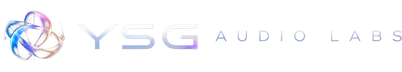
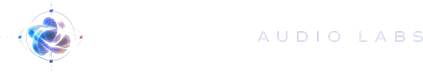
fix: 상단바 제품명 스타일 복구 · 다크 락업 재생성 · 축소/숨김 규칙
2966677 에서 `.ysglogo` 를 `.ysglock` 으로 갈아끼울 때 같은 hunk 에 붙어
있던 `.brand` · `.brand__name` · `.brand__v` 규칙까지 함께 지워졌다. 제품
5개 페이지 상단의 제품명이 스타일 없는 기본 링크로 떨어져 밑줄 친 파란
텍스트로 나오고 있었다. 복구하면서 상단바 전체 규칙을 다시 세운다.

제품명 복구 · 버전 표기 제거
- `.brand` / `.brand__name` 을 사고 이전 치수로 되돌린다. 크기만 16px →
  15px 로 한 단계 낮췄다
- 제품명 옆 버전 표기(`.brand__v`)는 상단바에서 뺀다. 허브 툴 카드와 각
  페이지의 내려받기 문구·사양표에 이미 있다

다크 락업 — 라이트 원본에서 워드마크만 다시 칠해 만든다
- 예전 다크판은 세로 락업에서 흰 워드마크를 떼어 따로 조합한 것이라
  매듭 0.74배 · 글자 0.87배 · 간격 0.67배로 비율 자체가 달랐다. 같은
  `height:30px` 를 줘도 폭이 176 대 168 로 갈려서, 테마가 다른 페이지로
  넘어가면 락업이 들썩여 보였다
- brand/ysg-lockup-compact-2026.png 에서 매듭은 그대로 두고 YSG 는 흰색,
  AUDIO LABS 는 #D0D5E7 로 칠해 다시 뽑았다. 두 장의 캔버스(423x72)와
  알파 채널이 완전히 같다 — 12개 덩어리 위치 오차 0px
- 매듭 도안도 ysg-mark-2026.png · 파비콘과 같은 링·노드 판으로 통일됐다

상단바 축소·숨김 규칙 (전 페이지 공통)
- 우선순위는 락업 > 제품명 > 언어·깃허브 > 섹션 링크. 링크는 절대 두 줄로
  접지 않고(`white-space:nowrap`), 제품명은 절대 자르지 않는다
  (`flex:0 0 auto`). 모자란 폭은 링크가 내주고 끝내 감춘다
- 기준점은 `:has()` 로 링크 개수를 세서 정한다. 링크를 더하거나 빼도
  규칙이 따라온다 — 3개 이하 680px · 4~5개 860px · 6개 이상 1120px 에서 숨김
- 전 페이지 일괄로 감추던 `@media (max-width:1000px){.navlinks{display:none}}`
  는 걷어냈다. 4~5링크 페이지는 870px 까지 링크를 들고 갈 수 있다

⚠ `--maxw:1200px` 때문에 상단바 내용폭은 화면이 아무리 넓어도 1112px 에서
  멈춘다. "큰 화면에서는 다 들어간다" 가 성립하지 않는다 — 링크 7개인
  SpatialRenderer 의 EN 표기는 자연폭이 1198px 라 4K 에서도 넘쳤다. 링크가
  6개 이상인 페이지는 폭과 무관하게 항상 한 단계 조인 치수로 둔다.

⚠ `.topbar__in` 에 `min-height:63px` 를 박았다. 예전에는 내용이 높이를
  정해서 링크가 있을 때 63 · 작아지면 59 · 숨으면 56px 로 갈렸고, 가운데
  정렬된 락업의 y 가 페이지마다 1.9px 씩 달라졌다.
[…]

diff --git a/assets/ysg.css b/assets/ysg.css
@@ -224,14 +224,24 @@
     background:rgba(255,255,255,.82); backdrop-filter:blur(14px) saturate(160%);
     border-bottom:1px solid var(--line);
   }
+  /* ⚠ 높이를 고정해 둘 것. 예전에는 내용이 높이를 정했는데, 섹션 링크가
+     있을 때 63px · 링크가 작아지면 59px · 링크가 숨으면 56px 로 갈렸다.
+     그러면 가운데 정렬된 락업의 y 가 페이지마다 최대 1.9px 씩 달라져서,
+     다른 페이지로 넘어갈 때 로고가 들썩인다. 링크 유무·크기와 무관하게
+     같은 자리에 있어야 한다. 63px 은 링크가 보일 때의 기존 높이다. */
   .topbar__in{
     max-width:var(--maxw); margin:0 auto; padding:12px var(--pad);
-    display:flex; align-items:center; gap:16px;
+    display:flex; align-items:center; gap:16px; min-height:63px;
   }
   /* 브랜드 락업 — 헤더용 원본에서 회색 판만 뺀 이미지를 그대로 쓴다.
-     워드마크가 짙은 남색이라 다크 지면에서는 묻힌다. 그래서 세로 락업 원본의
-     흰 워드마크로 다시 조합한 다크판을 따로 두고 테마에 따라 바꿔 단다.
-     두 장 다 받긴 하지만 각 20KB 안쪽이다.
+     워드마크가 짙은 남색이라 다크 지면에서는 묻힌다. 그래서 다크판을 따로 두고
+     테마에 따라 바꿔 단다. 두 장 다 받긴 하지만 각 20KB 안쪽이다.
+     ⚠ 다크판은 반드시 라이트 원본에서 워드마크만 다시 칠해 만든다
+       (brand/ysg-lockup-compact-2026.png → 매듭은 그대로, YSG 는 흰색,
+       AUDIO LABS 는 #D0D5E7). 예전에는 세로 락업에서 흰 워드마크를 떼어
+       따로 조합했는데, 매듭이 0.74배·글자가 0.87배·간격이 0.67배로 비율이
+       달라져 테마가 바뀔 때 락업이 움직여 보였다. 지금 두 장은 캔버스
+       423x72 와 알파 채널이 완전히 같다 — 위치 오차 0px.
      ⚠ 원본 비율(매듭이 워드마크의 4.45배)로는 YSG 글자가 13px 이 되려면 로고
        높이가 58px 이라 상단바가 두꺼워진다. 매듭만 글자 2.4배로 줄인 compact
        판을 쓴다 — 매듭과 글자 픽셀 자체는 원본 그대로다. */
@@ -247,12 +257,72 @@
   .ysglock--footer{display:flex; margin:0 0 14px}
   .ysglock--footer img{height:38px}
 
-  .navlinks{display:flex; gap:2px; margin-left:10px; flex:1 1 auto}
+  /* 상단바의 제품명. 2966677 에서 .ysglogo → .ysglock 으로 갈아끼울 때 같은
+     자리에 있던 이 규칙들까지 함께 지워져 밑줄 친 기본 링크로 떨어졌다. 복구본.
+     제품명 옆에 붙던 버전 표기(.brand__v)는 상단바에서 뺐다 — 허브 툴 카드와
+     각 페이지의 내려받기 문구·사양표에 이미 있다.
+     예전 주석은 `flex:0 0 auto` 를 금지했다. 제품명이 줄어들지 못해 상단바가
+     넘쳤기 때문인데, 이제 아래 축소·숨김 규칙이 섹션 링크를 먼저 내주고 끝내
+     감추므로 제품명은 고정해도 된다. 제품명은 어느 폭에서도 자르지 않는다. */
+  .brand{
+    display:flex; align-items:baseline; text-decoration:none;
+    flex:0 0 auto; min-width:0;
+  }
+  .brand__name{
+    font-size:15px; font-weight:800; letter-spacing:-.02em;
+    white-space:nowrap;
+  }
+
+  .navlinks{display:flex; gap:2px; margin-left:10px; flex:0 1 auto; min-width:0; overflow:hidden}
   .navlinks a{
     font-size:14px; font-weight:600; color:var(--ink-3); text-decoration:none;
     padding:7px 12px; border-radius:9px; transition:color .18s, background .18s;
+    white-space:nowrap;
   }
   .navlinks a:hover{color:var(--ink); background:var(--tint-2)}
+
+  /* ── 상단바 축소·숨김 규칙 (전 페이지 공통) ─────────────────────
+     우선순위는 락업 > 제품명 > 언어·깃허브 > 섹션 링크다. 폭이 모자라면
+     내주는 쪽은 언제나 섹션 링크이고, 링크는 절대 두 줄로 접지 않는다
+     (접히면 상단바가 두 줄이 되면서 제품명까지 말줄임으로 뭉갰다).
+
+     ⚠ `--maxw:1200px` 때문에 상단바 내용폭은 화면이 아무리 넓어도
+       1200 - 44*2 = 1112px 에서 멈춘다. 그래서 "큰 화면에서는 다 들어간다"
+       가 성립하지 않는다 — 링크 7개인 SpatialRenderer 의 EN 표기는 자연폭이
+       1198px 라 4K 에서도 넘쳤다. 링크가 많은 페이지는 폭과 무관하게 항상
+       한 단계 조인 치수로 둔다.
+
+     기준점을 페이지마다 손으로 박지 않고 `:has()` 로 링크 개수를 세서
+     정한다. 링크를 더하거나 빼도 규칙이 알아서 따라온다.
+       링크 3개 이하(허브)      : 680px 아래에서 숨김
+       링크 4~5개(제품 4종)     : 1000/920px 에서 2단 축소, 860px 아래 숨김
+       링크 6개 이상(Spatial)   : 항상 축소, 1120px 아래 숨김 */
+
+  /* 내비가 사라져도 언어·깃허브 묶음은 오른쪽 끝에 붙어 있어야 한다.
+     예전에는 `.navlinks{flex:1 1 auto}` 가 밀어주고 있었다. */
+  .topbar__in > .developer-topbtn,
+  .topbar__in > .langswitch{margin-left:auto}
+  .topbar__in > .developer-topbtn ~ .langswitch{margin-left:0}
+
+  /* 링크 6개 이상 — 폭과 무관하게 항상 2단계 치수 */
+  .navlinks:has(a:nth-child(6)){gap:0}
+  .navlinks:has(a:nth-child(6)) a{padding:6px 7px; font-size:13px}
+
+  /* 1단계 축소 */
+  @media (max-width: 1000px){
+    .topbar__in{gap:14px}
+    .navlinks{gap:0}
+    .navlinks a{padding:7px 9px}
+  }
+  /* 2단계 축소 */
+  @media (max-width: 920px){
+    .topbar__in{gap:12px}
+    .navlinks a{padding:6px 7px; font-size:13px}
+  }
+  /* 숨김 — 링크 개수별로 버티는 한계가 다르다 */
+  @media (max-width: 1120px){ .navlinks:has(a:nth-child(6)){display:none} }
+  @media (max-width: 860px){ .navlinks:has(a:nth-child(4)){display:none} }
+  @media (max-width: 680px){ .navlinks{display:none} }
   .langswitch{
     width:70px; height:32px; flex:0 0 auto; position:relative; padding:0;
     border:1px solid var(--line-2); border-radius:999px; background:#fff;
@@ -1079,7 +1149,8 @@
     .tiles, .rules{grid-template-columns:repeat(2,1fr)}
     .keys__grid{grid-template-columns:repeat(2,1fr)}
     .stat{grid-template-columns:1fr}
-    .navlinks{display:none}
+    /* 섹션 링크를 여기서 일괄로 감추던 규칙은 상단바 축소·숨김 규칙으로
+       옮겼다 (`.navlinks:has(...)`). 링크 개수에 따라 기준이 다르다. */
   }
   @media (max-width: 640px){
     .tiles, .rules{grid-template-columns:1fr}
@@ -1092,22 +1163,16 @@
     .anim-dot{display:none}
     .animshot--hero .animshot__stage{min-height:420px}
   }
-  @media (max-width: 720px){
-    .brand__v{display:none}
-  }
   /* 좁은 화면에서는 상단바가 넘치거나 제품명이 말줄임으로 뭉개진다.
      배지의 `YSG.AUDIO` 글자를 감추고 마크만 남기면 72px 이 남는다.
      ⚠ 기준을 380px 로 뒀더니 390px 에서 제품명이 58px 로 잘렸다
        (`YSGSpatialRenderer` 처럼 긴 이름). 520px 로 올렸다 (480px 에서도 5px 모자랐다). */
   @media (max-width: 520px){
-    /* 락업을 통째로 두면 제품명이 말줄임으로 뭉개진다 (390px 에서 문서폭 450 이
-       나왔던 그 문제). 매듭만 남겨 72px 을 돌려준다. 배경으로 넣는 이유는
-       display:none 인 <img> 도 내려받기 때문이다 — 미디어쿼리가 맞을 때만 받는다. */
-    .ysglock:not(.ysglock--footer) img{display:none}
-    .ysglock:not(.ysglock--footer){
-      width:28px; height:28px;
-      background:url("ysg-mark-2026.png") center / contain no-repeat;
-    }
-    .ysglock--footer img{height:32px}
+    /* 락업은 어느 폭에서도 줄이지 않는다 — 매듭만 남기던 예전 규칙은 걷어냈다.
+       대신 제품명을 감춘다. 390px 기준으로 락업 176 + 제품명 142 + KO/EN 70 +
+       GitHub 32 + 간격·여백 66 = 486px 이라 셋을 다 놓을 자리가 없다. 제품명을
+       더 줄여서 될 일도 아니다 (5px 까지 내려가야 한다). 락업·언어·깃허브만
+       남기면 334px 로 들어간다. 어느 제품 페이지인지는 제목과 지면이 말해준다. */
+    .brand{display:none}
     .topbar__in{gap:10px}
   }

diff --git a/index.html b/index.html
@@ -303,6 +303,14 @@
   }
   .developer-topbtn:hover,
   .developer-topbtn:focus-visible{color:var(--ink); background:var(--tint-2)}
+  /* 상단바에서 개발자 버튼을 감추는 폭에서는 푸터 링크가 유일한 진입점이 된다.
+     다이얼로그를 여는 건 `data-dialog-open` 위임 핸들러라 버튼이 어디 있든 된다. */
+  .footer-devlink{
+    appearance:none; border:0; background:transparent; padding:0; cursor:pointer;
+    font:inherit; font-size:13.5px; color:var(--ink-2); text-decoration:underline;
+    text-underline-offset:2px;
+  }
+  .footer-devlink:hover, .footer-devlink:focus-visible{color:var(--ink)}
   body.hub-page > .developer-dialog{
     position:fixed; inset:0; z-index:120; margin:0;
     width:100vw; max-width:none; height:100vh; max-height:none;
@@ -398,6 +406,12 @@
     .developer-card{grid-template-columns:1fr}
     .developer-photo{max-width:280px}
     .developer-topbtn{padding-inline:10px; font-size:13px}
+  }
+  /* 락업(176px)·KO/EN·GitHub 를 놓고 나면 개발자 버튼 자리가 없다 — 390px 에서
+     필요폭이 KO 369 / EN 399 인데 쓸 수 있는 폭은 354 다. 상단바에서 내리고
+     푸터 링크로 넘긴다. 락업 크기는 어느 폭에서도 건드리지 않는다. */
+  @media (max-width:520px){
+    .developer-topbtn{display:none}
   }
   @media (max-width:560px){
     .tool{grid-template-columns:1fr}
@@ -738,6 +752,7 @@
       <img class="ysglock__d" src="assets/ysg-lockup-compact-dark.png" alt="">
     </span>
     <p data-en="Made by YSG Audio Tools (You Seung Gyun) · contact: Samter96@naver.com">Made by YSG Audio Tools (You Seung Gyun) · 문의 : Samter96@naver.com</p>
+    <p><button class="footer-devlink" type="button" data-dialog-open="developer-dialog" data-en="About the developer">개발자 소개</button></p>
     <p id="year"></p>
   </div>
 </footer>

diff --git a/spatial-renderer/index.html b/spatial-renderer/index.html
@@ -137,7 +137,6 @@
     </a>
     <a class="brand" href="#top">
       <span class="brand__name">YSGSpatialRenderer</span>
-      <span class="brand__v" data-en="dev build">개발 중</span>
     </a>
     <nav class="navlinks" aria-label="페이지 섹션">
       <a href="#keys" data-en="Features">기능</a>

diff --git a/attenuation-auditor/index.html b/attenuation-auditor/index.html
@@ -126,7 +126,6 @@
     </a>
     <a class="brand" href="#top">
       <span class="brand__name">Attenuation Auditor</span>
-      <span class="brand__v">v1.4.0</span>
     </a>
     <nav class="navlinks" aria-label="페이지 섹션">
       <a href="#overview" data-en="Overview">개요</a>

diff --git a/bus-routing-auditor/index.html b/bus-routing-auditor/index.html
@@ -98,7 +98,6 @@
     </a>
     <a class="brand" href="#top">
       <span class="brand__name">Bus Routing Auditor</span>
-      <span class="brand__v">v2.0.0</span>
     </a>
     <nav class="navlinks" aria-label="페이지 섹션">
       <a href="#overview" data-en="Overview">개요</a>

diff --git a/stereo-auditor/index.html b/stereo-auditor/index.html
@@ -94,7 +94,6 @@
     </a>
     <a class="brand" href="#top">
       <span class="brand__name">Stereo Auditor</span>
-      <span class="brand__v">v1.0.3</span>
     </a>
     <nav class="navlinks" aria-label="페이지 섹션">
       <a href="#overview" data-en="Overview">개요</a>

diff --git a/soundfield/index.html b/soundfield/index.html
@@ -148,7 +148,6 @@
     </a>
     <a class="brand" href="#top">
       <span class="brand__name">SoundField</span>
-      <span class="brand__v">v2.1.0</span>
     </a>
     <nav class="navlinks" aria-label="페이지 섹션">
       <a href="#overview" data-en="Overview">개요</a>
